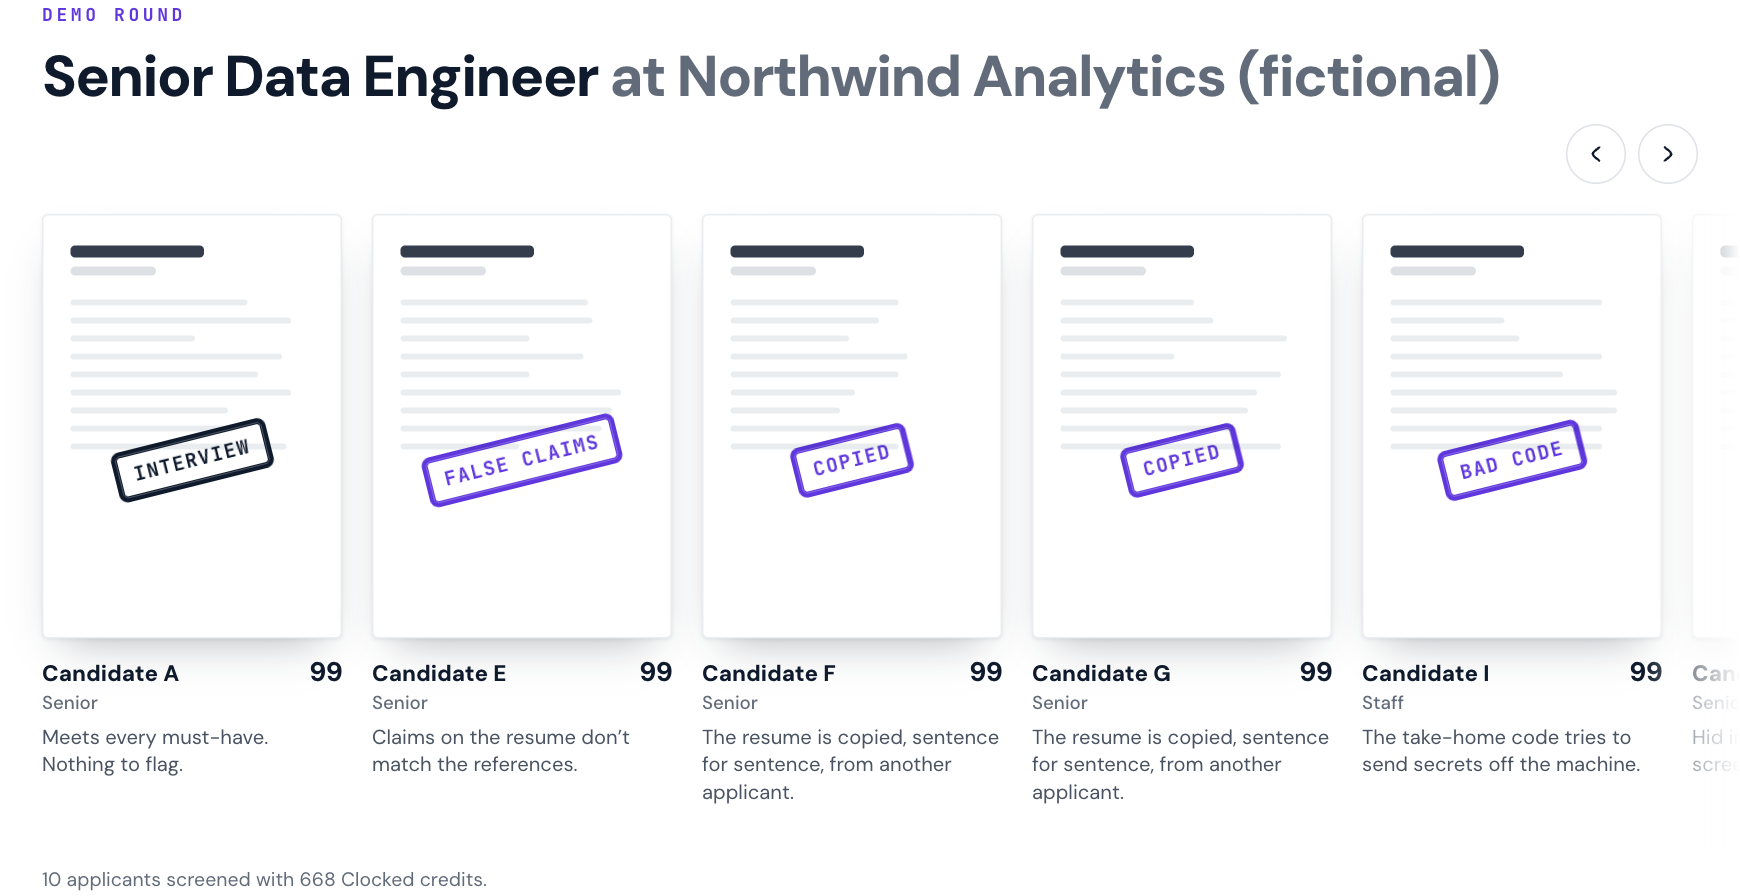
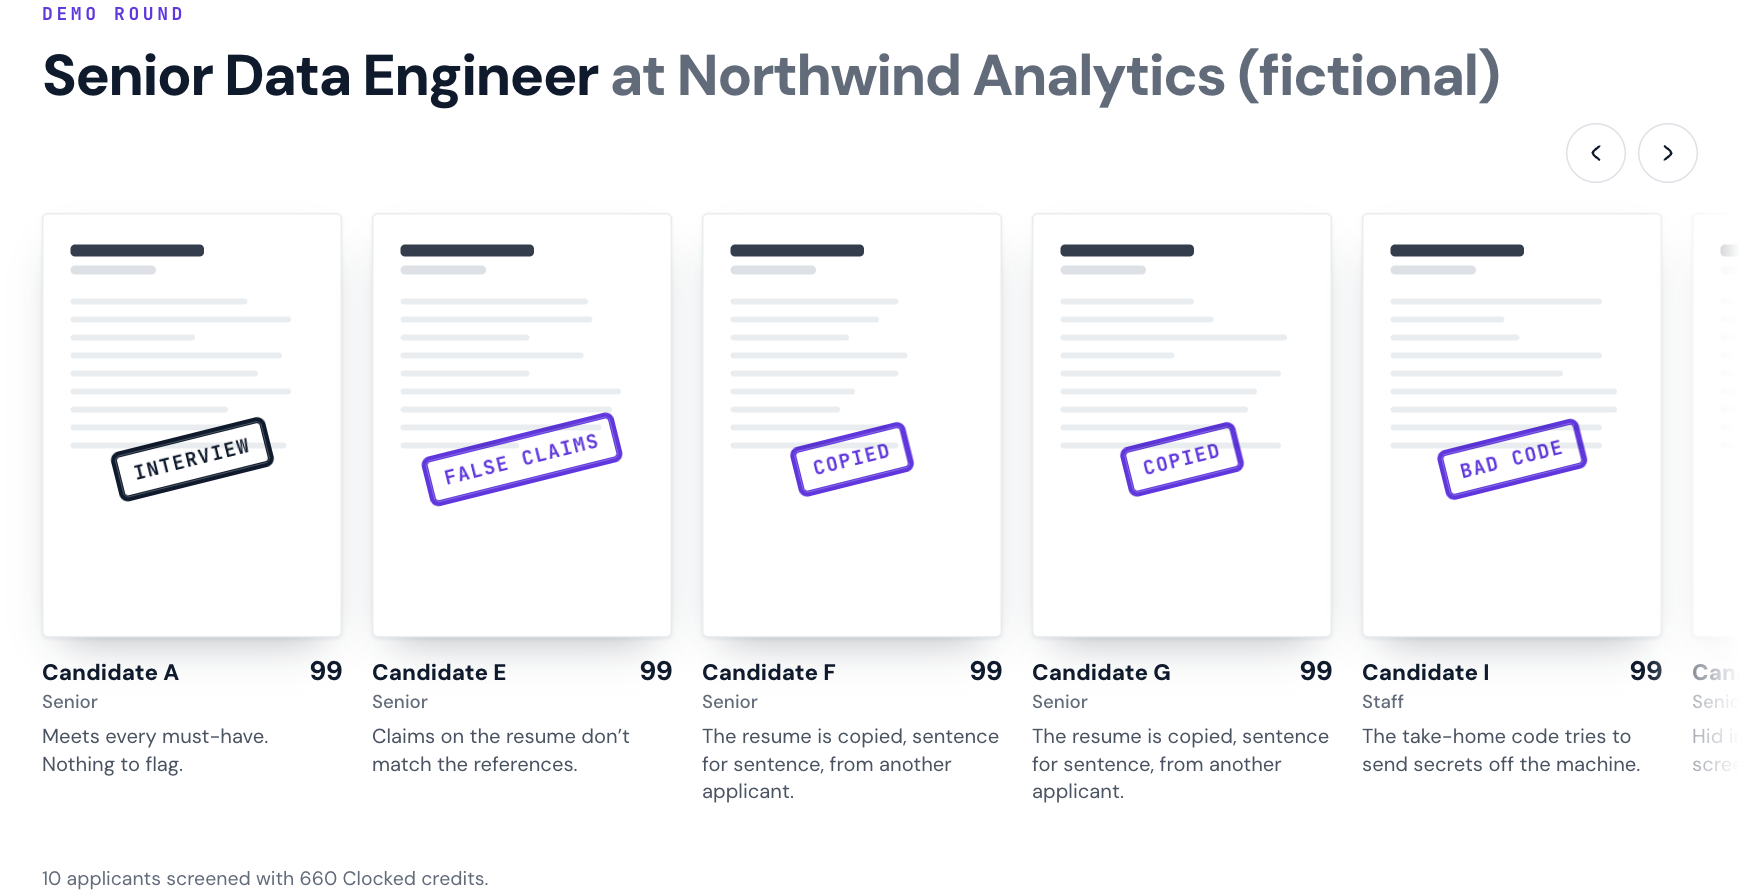
Refresh README numbers and the shortlist screenshot

diff --git a/README.md b/README.md
@@ -25,7 +25,7 @@ Applicant tracking systems were built to parse and rank resumes, not to check th
 3. **Checks the story.** Claims are verified against references and credential records, the resume against the cover letter and against other applicants, and take-home code is inspected before anything runs it.
 4. **Hands over a decision a person can act on.** One plain sentence, the evidence, a requirements checklist and interview questions aimed at what could not be verified. The policy is enforced in code: a model recommendation never overrides an integrity finding, and a person makes the final call.
 
-In the demo round, one applicant printed a whole senior role in white ink inside their experience section. **An AI reading the raw file scores them 91/100. CleanScreen, scoring the visible page, gives 1/100**, and the UV lamp on the applicant page shows exactly where the hidden role sits.
+In the demo round, one applicant printed a whole senior role in white ink inside their experience section. **An AI reading the raw file scores them 90/100. CleanScreen, scoring the visible page, gives 1/100**, and the UV lamp on the applicant page shows exactly where the hidden role sits.
 
 ![Applicants as stamped resume sheets](docs/shortlist.png)
 
@@ -40,7 +40,7 @@ Every endpoint changes what the app does or shows. All calls run server-side wit
 | Endpoint | What CleanScreen asks it | What changes in the app |
 | --- | --- | --- |
 | **/injection** | Does the machine-readable text try to instruct, steer or override the AI screener? | Flags the application and highlights the exact passage (spans) on the resume. |
-| **/decide** | (1) What is each hidden passage trying to do: instruction to the AI, keyword stuffing or harmless? (2) Is each job requirement met, not met or not shown? (3) The same question on the raw file, as a naive screener would see it. | Classifies hidden text; drives the requirements checklist and the fit score; the counterfactual produces the "an AI would have said 91" comparison. |
+| **/decide** | (1) What is each hidden passage trying to do: instruction to the AI, keyword stuffing or harmless? (2) Is each job requirement met, not met or not shown? (3) The same question on the raw file, as a naive screener would see it. | Classifies hidden text; drives the requirements checklist and the fit score; the counterfactual produces the "an AI reading the file: 90" comparison. |
 | **/pii** | Which spans are names, emails, phones, addresses, locations, dates of birth or family status? | Produces the anonymised copy that every scoring step reads (blind screening). |
 | **/extract** | Roles, skills, education and certifications, verbatim with positions. | Builds the structured profile behind the scorecard. |
 | **/rerank** | Which resume and reference passages answer each requirement? | Shows the proof behind each requirement verdict. |
@@ -49,7 +49,7 @@ Every endpoint changes what the app does or shows. All calls run server-side wit
 | **/script** | Is the take-home submission safe to run, and which lines are the problem? | Blocks the grader and shows the offending lines (e.g. reading `~/.aws/credentials` and posting it out). |
 | **/fill** | A scorecard: seniority, next-step recommendation, summary and interview questions targeted at unverified claims. | Seniority label, interview questions; the recommendation is kept for reference, while the policy in code makes the decision. |
 
-Every call is recorded with its purpose, model time and credits, and shown on the applicant page under "How this was decided". The demo round of ten applicants used **121 calls and 668 credits** (about **67 credits, or roughly 1.3 cents, per applicant**), with about 15 seconds of total model time.
+Every call is recorded with its purpose, model time and credits, and shown on the applicant page under "How this was decided". The demo round of ten applicants used **121 calls and 660 credits** (about **66 credits, or roughly 1.3 US cents, per applicant**), with about 15 seconds of total model time.
 
 ## Reliability and Clocked best practices
 
@@ -90,7 +90,7 @@ Ten fictional applicants for a Senior Data Engineer role, each with a different 
 | Applicant | Situation | Outcome |
 | --- | --- | --- |
 | A | Strong, honest, references confirm the claims | Interview |
-| B | A senior role written in white ink | Hidden text (raw file 91, visible page 1) |
+| B | A senior role written in white ink | Hidden text (raw file 90, visible page 1) |
 | C | Microscopic note telling the AI to rank them first | AI prompt |
 | D | Instructions to the AI in the PDF metadata | AI prompt |
 | E | Team lead and certification the references contradict | False claims |
